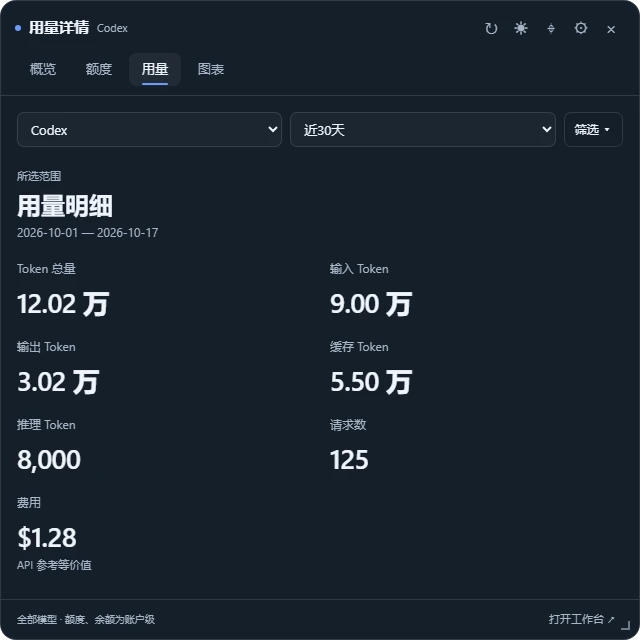
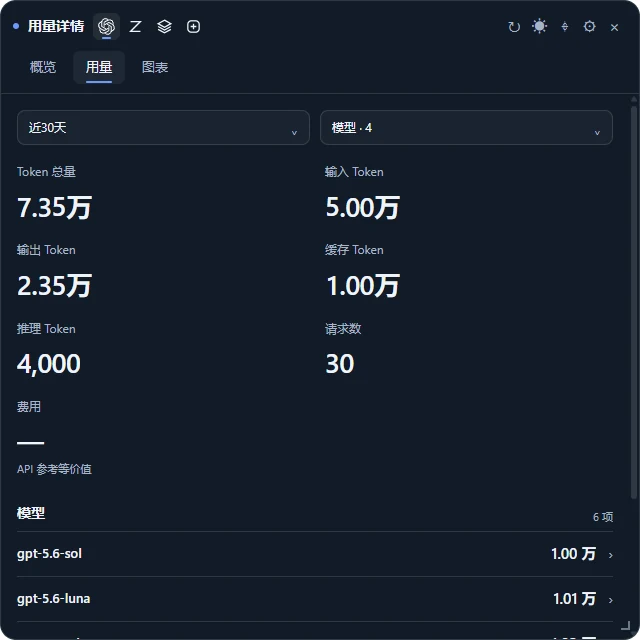
0.1.19：同步双环设计与新版浅深预览

diff --git a/frontend/compat/usage-charts.ts b/frontend/compat/usage-charts.ts
@@ -332,8 +332,8 @@
       const measure = document.createElement("canvas").getContext("2d");
       measure.font = "12px " + getComputedStyle(svg).fontFamily;
       const left = Math.max(
-          96,
-          Math.ceil(measure.measureText(value(host, upper)).width) + 18,
+          host.dataset.axisInset === "compact" ? 38 : 96,
+          Math.ceil(measure.measureText(value(host, upper)).width) + (host.dataset.axisInset === "compact" ? 10 : 18),
         ),
         right = width - 16;
       const times = rows.map((r) => Date.parse(r.date)),

diff --git a/README.md b/README.md
@@ -14,11 +14,11 @@
 
 一个以本机 Profile 为资料边界的个人工作台。网页版与 Windows 桌面版共享页面和业务服务；项目、待办、账单、提示词与用量证据集中管理。一个 Profile 就是一个实例账户，无需应用登录或注册，用户名与头像可以修改。
 
-## 0.1.18 任务栏双环与用量详情
+## 0.1.19 任务栏双环与用量详情
 
-详情支持短时复用、立即外点收起与独立额度刷新；Token历史与曲线不再跟随额度轮询重建，Codex统计统一为当前Profile本机日志。Windows桌面用量入口为任务栏两个同心双环：默认开始按钮左侧，外蓝为剩余额度、内红为距重置时间，分别显示Codex五小时与周额度；颜色、位置、显示器、偏移及大小可调。优先真实内嵌，空间不足或不兼容时显示任务栏附近的独立入口，设置标明实际模式。
+详情支持短时复用、锚定外点缩回与独立额度刷新；Token历史与曲线不再跟随额度轮询重建，Codex统计统一为当前Profile本机日志。Windows桌面用量入口为任务栏两个同心双环：默认开始按钮左侧，外蓝为剩余额度、内红为距重置时间，分别显示Codex五小时与周额度；颜色、位置、显示器、偏移及大小可调。优先真实内嵌，空间不足或不兼容时显示任务栏附近的独立入口，设置标明实际模式。
 
-点击在入口上方展开详情，提供概览、额度、用量、图表及单模型详情；来源、账户、日期和多模型筛选独立保存。支持主题、完整配色、尺寸及固定，透明主题不在文字或图表下填背景块。再次点击、Esc或未固定时点击其他应用收起，隐藏后停止查询与图表交互，30秒内重开复用窗口，闲置后释放渲染器；双环与既有后台继续工作。主窗轻量模式与托盘恢复保留。
+悬停临时展开、点击保持详情，提供概览、用量、图表及单模型详情；标题旁四来源图标切换，等宽日期／模型下拉独立保存，支持OpenAI组合GPT模型。支持主题、完整配色、尺寸及固定，透明主题不在文字或图表下填背景块。再次点击、Esc或未固定时点击外部平滑缩回，隐藏后停止查询与图表交互，30秒内重开复用窗口，闲置后释放渲染器；双环与既有后台继续工作。主窗轻量模式与托盘恢复保留。
 
 首次默认关闭，桌面「关于 → 任务栏用量」或托盘设置可开启。设置提供等比预览与Ctrl＋／−／0缩放。网页版不提供原生任务栏入口，Windows安装版由Releases提供。实际任务栏宿主、模拟自有窗口消息、渲染截图、真实OS鼠标和安装链分别验证。
 

diff --git a/GIT_LOG.md b/GIT_LOG.md
@@ -1,5 +1,5 @@
 # 发布记录
 
-## 0.1.18
+## 0.1.19
 
 React、TypeScript、Vite 与 Node、SQLite；Profile 实例资料、完整加密备份。桌面安装版由 Releases 提供。
